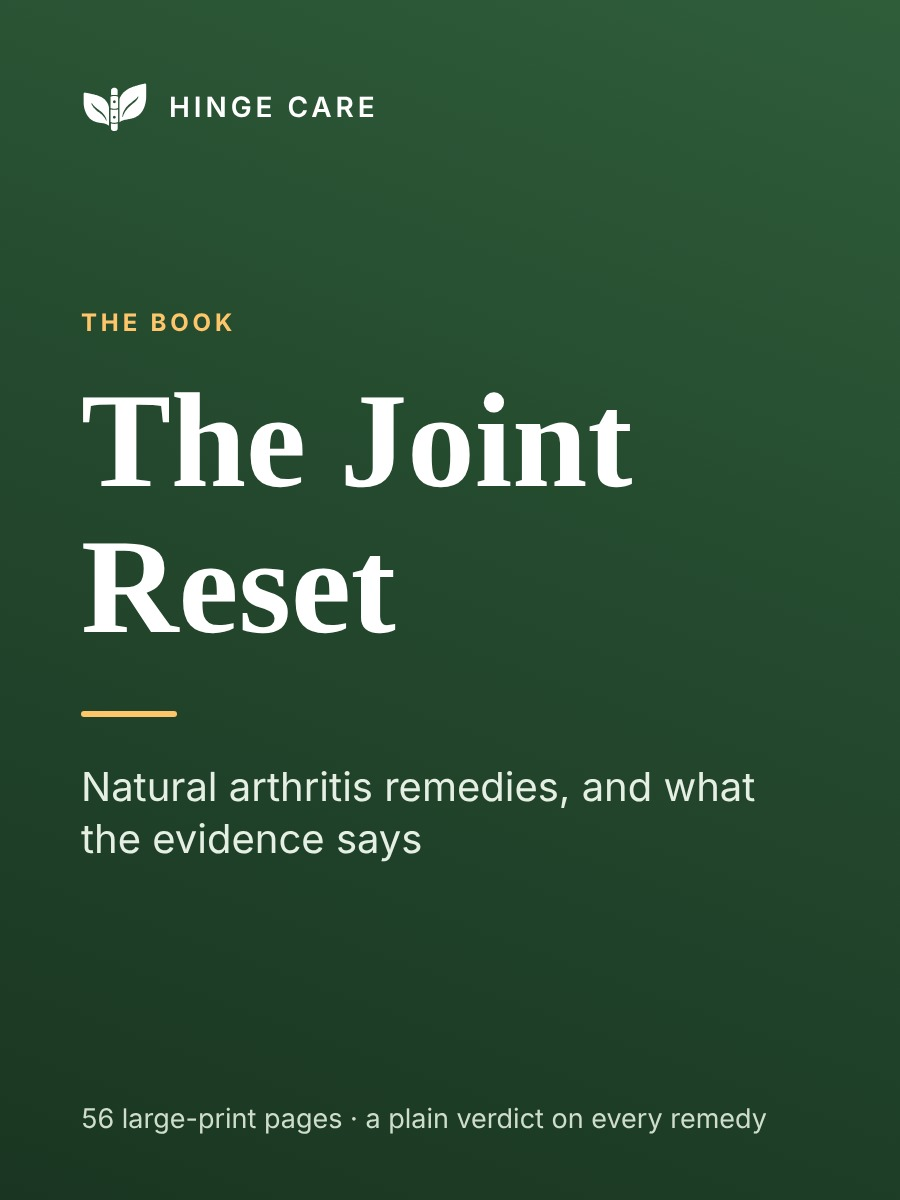
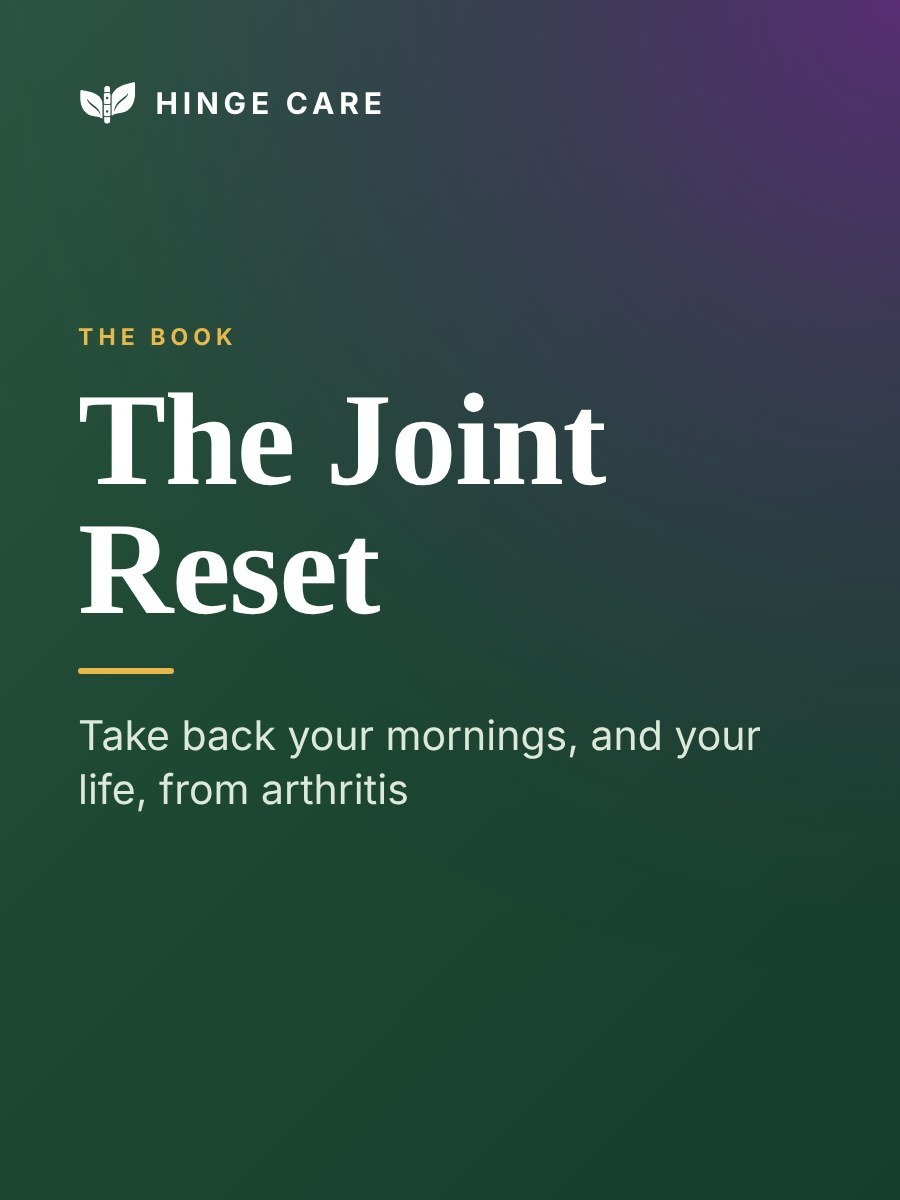
The Joint Reset cover: purple blending from the top-right corner into green; lighter cover image
Claude-Session: https://claude.ai/code/session_016AkRdsJikUb1CWbo4NGJjS

diff --git a/index.html b/index.html
@@ -35,7 +35,7 @@
 <p class="sub">Hinge Care lists every price on this page, and nothing is added at checkout.</p>
 <div class="cards">
 <div class="card"><img src="images/cover-habits-rust.jpg?v=2" alt="Cover of the free guide, 7 Bad Habits That Will Keep Joints Stiff and Sore" loading="lazy" width="900" height="1200"><p class="eye">Free · start here</p><h3>7 Bad Habits</h3><p>Seven everyday habits that keep joints stiff, and a simple fix for each. Most of the fixes cost nothing.</p><p class="price">Free</p><a class="b b1" href="guide.html">Get it free</a></div>
-<div class="card"><img src="images/cover-joint-reset-green.png?v=4" alt="Cover of The Joint Reset book" loading="lazy" width="900" height="1200"><p class="eye">The book</p><h3>The Joint Reset</h3><p>Dozens of home remedies checked against the research, with a plain verdict on each.</p><p class="price">$17 <small>one payment</small></p><a class="b b2" href="book.html">See the book</a></div>
+<div class="card"><img src="images/cover-joint-reset.jpg?v=5" alt="Cover of The Joint Reset book" loading="lazy" width="900" height="1200"><p class="eye">The book</p><h3>The Joint Reset</h3><p>Dozens of home remedies checked against the research, with a plain verdict on each.</p><p class="price">$17 <small>one payment</small></p><a class="b b2" href="book.html">See the book</a></div>
 <div class="card"><img src="https://images.pexels.com/photos/7530853/pexels-photo-7530853.jpeg?auto=compress&cs=tinysrgb&w=800" alt="An older woman sitting on the edge of her bed in the morning, stretching gently" loading="lazy" width="1168" height="880"><p class="eye">The Program</p><h3>The Hinge Care Program</h3><p>Eight weeks, one small step a day, with 24 short videos and the Hinge App for guided chair routines. Go at your own pace.</p><p class="price">$97 <small>paid once</small></p><a class="b b2" href="course-info.html">See the Program</a></div>
 </div>
 <div class="wide"><div><p class="eye">The Club</p><h3>Something gentle to look forward to, every week.</h3><p>Join for yourself, or give it to Mom or Dad. The first 50 members pay $9 a month (about 30 cents a day) or $90 a year, for as long as they stay. After that it's $19 a month.</p></div>

diff --git a/book.html b/book.html
@@ -23,7 +23,7 @@
 <div><p class="eye">From Hinge Care · The Joint Reset</p><h1>Stop spending money on remedies that don't work.</h1>
 <p class="lede">Most of us have stood in the pharmacy aisle reading labels and hoping. The Joint Reset gives dozens of popular remedies a plain verdict — what helps, what might, and what to skip — based on what the research actually found, so you can spend your money where it counts.</p>
 <div class="buy"><p class="price">$17 <small>one payment</small></p><a class="b b1" href="shop/checkout.html?item=book">Get the book · $17</a><p class="fine">A PDF you keep on any phone, tablet or computer, backed by our 30-day money-back promise.</p><p style="display:inline-block;margin:10px 0 0;padding:8px 14px;border-radius:999px;background:#F3E9FF;color:#4B2A6B;font-weight:700;font-size:16px">Book readers can add the 8-week Program for $77 (normally $97).</p></div></div>
-<img class="cover" src="images/cover-joint-reset-green.png?v=4" alt="Cover of The Joint Reset" width="900" height="1200" fetchpriority="high">
+<img class="cover" src="images/cover-joint-reset.jpg?v=5" alt="Cover of The Joint Reset" width="900" height="1200" fetchpriority="high">
 </div></section>
 <section class="s alt"><div class="w split">
 <div><h2>What you'll find inside</h2><ul class="ticks"><li>A plain verdict on dozens of home remedies: what helps, what may, and what's your call.</li><li>A daily routine, and a four-week plan that adds one habit a week.</li><li>Ten easy movements that need only a sturdy chair.</li><li>A flare-day plan, and clear signs for when to see your doctor.</li></ul></div>

diff --git a/gift.html b/gift.html
@@ -22,7 +22,7 @@
 <div><p class="eye">Black Friday · November 27 to December 1</p><h1>For someone whose mornings are harder than they let on.</h1>
 <p class="lede">The book and the Program together for $97. Bought separately they cost $114. For five days only, for yourself or for someone you love.</p>
 <div class="buy"><p class="price">$97 <small>paid once, both yours to keep</small></p><a class="b b1" href="shop/checkout.html?item=bundle">Get the bundle · $97</a><p class="fine">30-day money-back promise. On sale from Friday, November 27.</p></div></div>
-<img class="cover" src="images/cover-joint-reset-green.png?v=4" alt="Cover of The Joint Reset" width="900" height="1200">
+<img class="cover" src="images/cover-joint-reset.jpg?v=5" alt="Cover of The Joint Reset" width="900" height="1200">
 </div></section>
 <section class="s alt"><div class="w split">
 <div><h2>What's in the bundle</h2><ul class="ticks"><li>The Joint Reset: dozens of home remedies with a plain verdict on each, a daily routine and a flare-day plan ($17).</li><li>The Hinge Care Program: eight weeks of small daily steps with 24 short videos and the Hinge App ($97).</li></ul></div>

diff --git a/thank-you.html b/thank-you.html
@@ -27,7 +27,7 @@
 <li><span class="num">2</span><h3>Open your guide</h3><p>One tap and it's yours, on any phone, tablet or computer.</p></li>
 <li><span class="num">3</span><h3>Try one fix</h3><p>Just one. That's plenty for today.</p></li></ol></div></section>
 <section class="s"><div class="w split">
-<img class="cover" src="images/cover-joint-reset-green.png?v=4" alt="Cover of The Joint Reset" width="900" height="1200" loading="lazy">
+<img class="cover" src="images/cover-joint-reset.jpg?v=5" alt="Cover of The Joint Reset" width="900" height="1200" loading="lazy">
 <div><p class="eye">If you'd like the full picture</p><h2>The Joint Reset, $17</h2><p>The free guide covers seven habits. The book covers dozens of home remedies people ask about, with a plain verdict on each.</p>
 <div class="btns"><a class="b b1" href="shop/checkout.html?item=book">Get the book · $17</a><a class="b b2" href="index.html">Back to the home page</a></div>
 <p class="fine">Backed by our 30-day money-back promise. Hinge Care makes no cure claims, and the book works alongside your doctor's care.</p></div>
